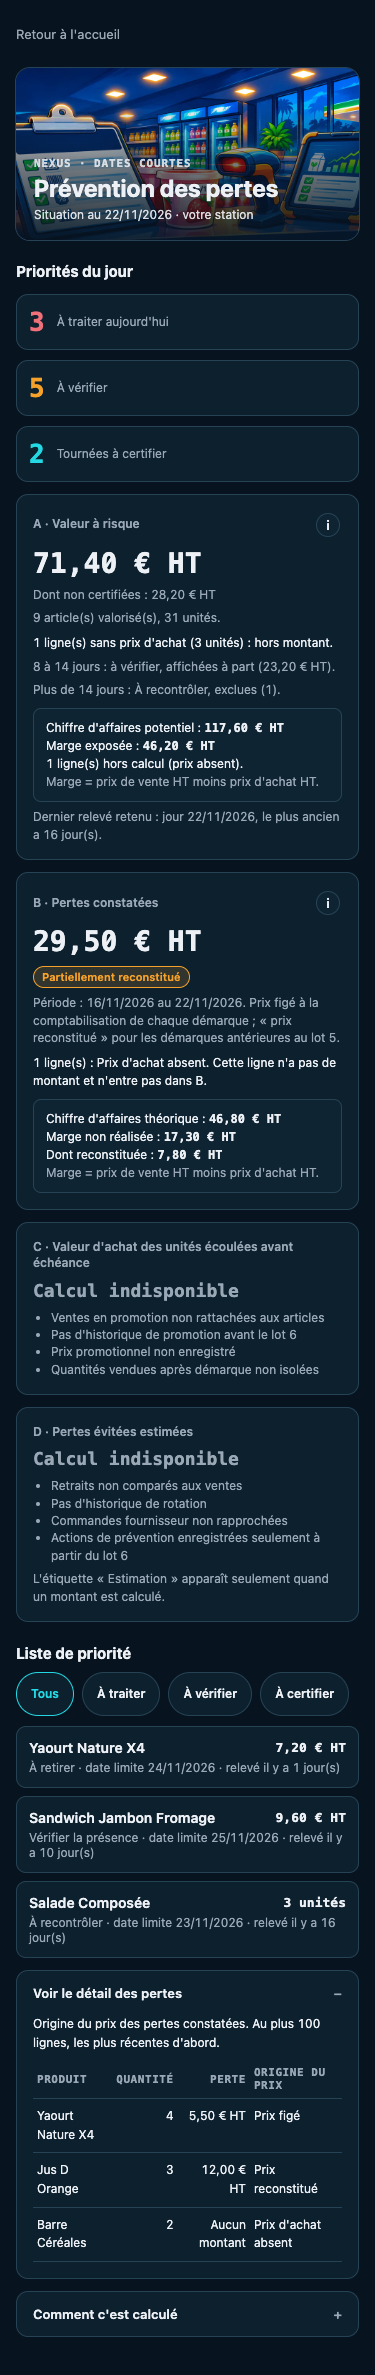
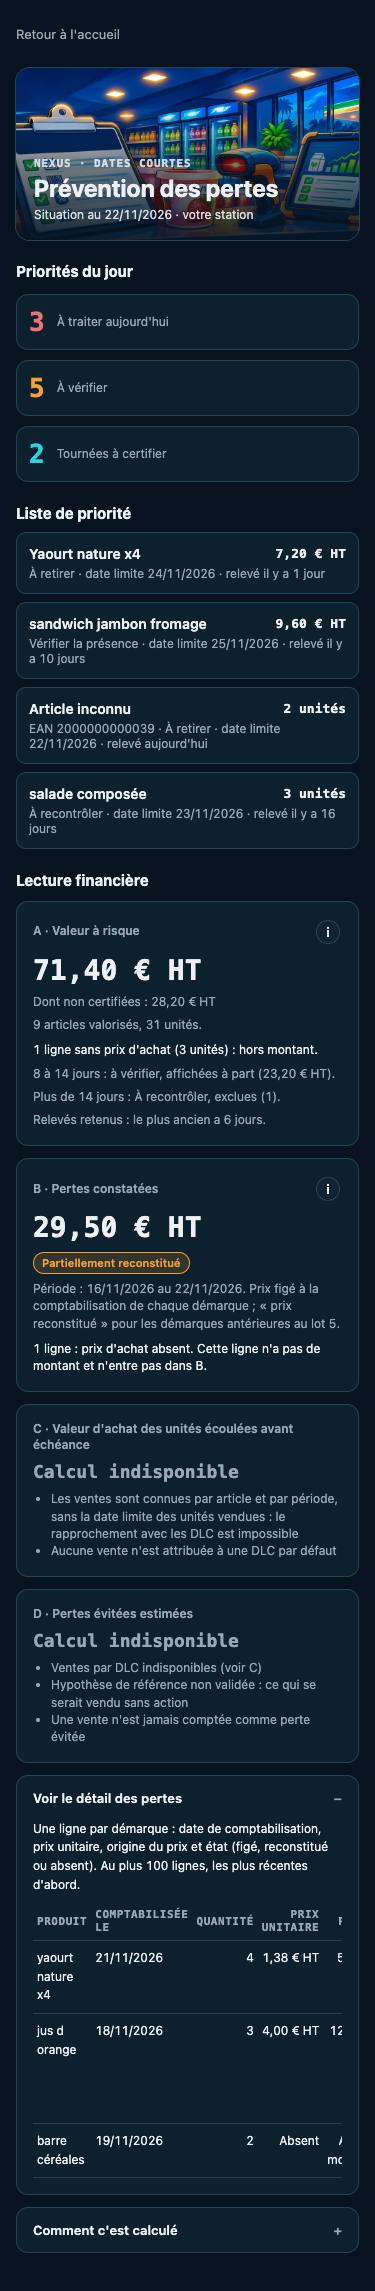
Dates courtes lot 5 : corrections de la recette visuelle (fiche autres tournées, noms, article inconnu, polices, phrases)

diff --git a/NEXUS-Dates-Courtes-v1.html b/NEXUS-Dates-Courtes-v1.html
@@ -76,7 +76,7 @@
   .liste{display:flex;flex-direction:column;gap:8px;margin-top:10px}
   .ligne{display:grid;grid-template-columns:1fr auto;gap:4px 10px;align-items:center;text-align:left;width:100%;background:var(--panel);border:1px solid var(--hairline);border-radius:10px;padding:12px;color:inherit;font:inherit;cursor:pointer;min-height:44px}
   .ligne:hover{border-color:var(--cyan)}
-  .ligne .nom{font-weight:600;font-size:14px;text-transform:capitalize;overflow-wrap:anywhere}
+  .ligne .nom{font-weight:600;font-size:14px;overflow-wrap:anywhere}
   .ligne .meta{font-size:12px;color:var(--text-mid);grid-column:1/-1}
   .ligne .val{font:600 13px var(--mono);text-align:right}
   .filtres{display:flex;flex-wrap:wrap;gap:8px;margin-top:10px}
@@ -106,9 +106,9 @@
   dialog{margin:auto;border:1px solid var(--hairline);border-radius:14px;background:var(--panel);color:var(--text);width:min(520px,calc(100vw - 24px));padding:0;max-height:88vh;overflow:auto}
   dialog::backdrop{background:rgba(0,0,0,.55)} /* charte-exception: voile de fond de la fiche */
   .fiche{padding:18px}
-  .fiche h2{margin:0;font-size:17px;text-transform:capitalize;overflow-wrap:anywhere}
+  .fiche h2{margin:0;font-size:17px;overflow-wrap:anywhere}
   .fiche dl{display:grid;grid-template-columns:auto 1fr;gap:6px 14px;margin-top:14px;font-size:13px}
-  .fiche dt{color:var(--text-mid)} .fiche dd{text-align:right;font-family:var(--mono)}
+  .fiche dt{color:var(--text-mid)} .fiche dd{text-align:right;font-family:var(--sans)} .fiche dd .num,.fiche dd .autre b{font-family:var(--mono)} .fiche .autres{margin:6px 0 0;padding:0;list-style:none;text-align:left} .fiche .autres li{margin:2px 0} .fiche .regle{grid-column:1/-1;margin:6px 0 0;font-size:13px;color:var(--text-mid);text-align:left}
   .fiche .actions{display:flex;flex-direction:column;gap:8px;margin-top:16px}
   .fiche button{min-height:44px;border-radius:8px;border:1px solid var(--hairline);background:var(--panel-raised);color:var(--text);font:600 13px var(--sans);cursor:pointer}
   .fiche button[disabled]{opacity:.6;cursor:not-allowed}
@@ -156,9 +156,11 @@
   const pl = (n, u, m) => nb(n) + ' ' + (n > 1 ? (m || u + 's') : u);
   const unites = n => nb(n) + (n > 1 ? ' unités' : ' unité');
   const dateFr = iso => iso ? iso.slice(8,10) + '/' + iso.slice(5,7) + '/' + iso.slice(0,4) : '';
-  const ETAT_AGE = {courante:'7 jours ou moins : courante', a_verifier:'8 à 14 jours : à vérifier', a_recontroler:'Plus de 14 jours : À recontrôler'};
+  const ETAT_AGE = {courante:'Récent (7 jours ou moins)', a_verifier:'8 à 14 jours : à vérifier', a_recontroler:'Plus de 14 jours : À recontrôler'};
   const ORIGINE = {fige:'Figé', reconstitue:'Reconstitué', absent:'Absent'};
   const SOURCE = {products:'Fiche produit', inventaire_ventes_import:'Inventaire des ventes'};
+  const nomArt = it => { const l = (it.libelle || '').trim(); return (!l || l === String(it.ean || '').trim()) ? 'Article inconnu' : l; };
+  const heureMq = iso => { try { return new Date(iso).toLocaleString('fr-FR', {timeZone:'America/Martinique', day:'2-digit', month:'2-digit', hour:'2-digit', minute:'2-digit'}).replace(',', ' à'); } catch (e) { return ''; } };
   const agePhrase = n => n === 0 ? 'relevé aujourd\'hui' : 'relevé il y a ' + pl(n, 'jour');
 
   function messageEtat(titre, texte, avecReessai){
@@ -176,7 +178,7 @@
     } else {
       corps = '<div class="gros">' + (a.valeur == null ? 'Aucun montant' : eur(a.valeur)) + '</div>' +
         (a.valeur != null ? '<p class="sous-gros">Dont non certifiées : ' + eur(a.dont_non_certifiees || 0) + '</p>' : '') +
-        '<p class="sous-gros">' + pl(a.articles_valorises, 'article valorisé') + ', ' + unites(a.unites) + '.</p>' +
+        '<p class="sous-gros">' + pl(a.articles_valorises, 'article valorisé', 'articles valorisés') + ', ' + unites(a.unites) + '.</p>' +
         (a.sans_prix.lignes > 0 ? '<p class="note">' + pl(a.sans_prix.lignes, 'ligne') + ' sans prix d\'achat (' + unites(a.sans_prix.unites) + ') : hors montant.</p>' : '');
     }
     const ind = a.indicatif && a.indicatif.articles > 0
@@ -187,7 +189,7 @@
       : 'Marge non calculable : prix ou nature fiscale manquants.';
     return '<section class="card" id="carteA" aria-labelledby="hA"><h3 id="hA">A · Valeur à risque' + btnInfo('iA') + '</h3>' + corps + ind + exc +
       '<div class="infobulle" id="iA" hidden>' + marge + '<br><span class="aide">' + esc(d.marge.formule) + '</span></div>' +
-      (a.plus_ancien_jours != null ? '<p class="sous-gros">Dernier relevé retenu : jour ' + dateFr(d.jour) + ', le plus ancien a ' + pl(a.plus_ancien_jours, 'jour') + '.</p>' : '') + '</section>';
+      (a.plus_ancien_jours != null ? '<p class="sous-gros">Relevés retenus : le plus ancien ' + (a.plus_ancien_jours === 0 ? 'date d\'aujourd\'hui' : 'a ' + pl(a.plus_ancien_jours, 'jour')) + '.</p>' : '') + '</section>';
   }
 
   function btnInfo(id){ return '<button type="button" class="info" aria-expanded="false" aria-controls="' + id + '" aria-label="Voir la marge et le chiffre d\'affaires"><span aria-hidden="true">i</span></button>'; }
@@ -242,15 +244,15 @@
     const lignes = items.length ? items.map(it => {
       const idx = d.liste.indexOf(it);
       const val = nfOk && it.valeur != null ? eur(it.valeur) : unites(it.quantite);
-      return '<button type="button" class="ligne" data-i="' + idx + '"><span class="nom">' + esc(it.libelle) + '</span><span class="val">' + esc(val) + '</span>' +
-        '<span class="meta">' + esc(it.action) + ' · date limite ' + dateFr(it.date_limite) + ' · ' + agePhrase(it.age_jours) + '</span></button>';
+      return '<button type="button" class="ligne" data-i="' + idx + '"><span class="nom">' + esc(nomArt(it)) + '</span><span class="val">' + esc(val) + '</span>' +
+        '<span class="meta">' + (nomArt(it) === 'Article inconnu' && it.ean ? 'EAN ' + esc(it.ean) + ' · ' : '') + esc(it.action) + ' · date limite ' + dateFr(it.date_limite) + ' · ' + agePhrase(it.age_jours) + '</span></button>';
     }).join('') : '<div class="etat">Rien à afficher pour cette sélection.</div>';
     return '<h2 id="titreListe">' + titre + '</h2>' + f + '<div class="liste">' + lignes + '</div>';
   }
 
   function detailPertes(d){
     const b = d.b, nfOk = d.nature_fiscale.determinee;
-    const rows = b.detail.length ? b.detail.map(x => '<tr><td>' + esc(x.libelle) + '</td><td>' + dateFr(x.date_comptabilisation) + '</td><td class="num">' + nb(x.quantite) + '</td><td class="num">' + (x.prix_unitaire != null ? eur(x.prix_unitaire) : 'Absent') + '</td><td class="num">' + (nfOk && x.valeur != null ? eur(x.valeur) : 'Aucun montant') + '</td><td>' + esc(SOURCE[x.source] || x.source || 'Aucune') + (x.periode_debut ? '<br><span class="aide">' + dateFr(x.periode_debut) + ' au ' + dateFr(x.periode_fin) + '</span>' : '') + '</td><td>' + esc(ORIGINE[x.etat] || x.etat) + '</td></tr>').join('') : '<tr><td colspan="7">Aucune démarque sur la période.</td></tr>';
+    const rows = b.detail.length ? b.detail.map(x => '<tr><td>' + esc(nomArt(x)) + (nomArt(x) === 'Article inconnu' && x.ean ? '<br><span class="aide">' + esc(x.ean) + '</span>' : '') + '</td><td>' + dateFr(x.date_comptabilisation) + '</td><td class="num">' + nb(x.quantite) + '</td><td class="num">' + (x.prix_unitaire != null ? eur(x.prix_unitaire) : 'Absent') + '</td><td class="num">' + (nfOk && x.valeur != null ? eur(x.valeur) : 'Aucun montant') + '</td><td>' + esc(SOURCE[x.source] || x.source || 'Aucune') + (x.periode_debut ? '<br><span class="aide">' + dateFr(x.periode_debut) + ' au ' + dateFr(x.periode_fin) + '</span>' : '') + '</td><td>' + esc(ORIGINE[x.etat] || x.etat) + '</td></tr>').join('') : '<tr><td colspan="7">Aucune démarque sur la période.</td></tr>';
     return '<details class="panneau" id="panDetail"><summary>Voir le détail des pertes</summary><div class="corps"><p>Une ligne par démarque : date de comptabilisation, prix unitaire, origine du prix et état (figé, reconstitué ou absent). Au plus 100 lignes, les plus récentes d\'abord.</p><div style="overflow-x:auto"><table><thead><tr><th>Produit</th><th>Comptabilisée le</th><th class="num">Quantité</th><th class="num">Prix unitaire</th><th class="num">Perte</th><th>Origine du prix</th><th>État</th></tr></thead><tbody>' + rows + '</tbody></table></div></div></details>';
   }
 
@@ -277,13 +279,22 @@
       detailPertes(d) + commentCalcule(d);
   }
 
+  function autresTournees(it){
+    const a = Array.isArray(it.autres_tournees) ? it.autres_tournees : [];
+    if (!a.length) return '';
+    // L'identifiant de l'auteur n'est jamais affiché : la réponse ne porte ni pseudonyme ni rôle.
+    const li = a.map(t => '<li class="autre">' + esc(t.nom || 'Tournée sans nom') + ', par un autre opérateur, ' + esc(heureMq(t.heure)) + '</li>').join('');
+    return '<h3 class="aide" style="margin:12px 0 0">Autres tournées sur cette ligne</h3><ul class="autres">' + li + '</ul>' +
+      '<p class="regle">La tournée la plus récente fait foi : seules les ' + unites(it.quantite) + ' de cette tournée comptent.</p>';
+  }
+
   function ouvrirFiche(i){
     const it = DONNEES.liste[i], nfOk = DONNEES.nature_fiscale.determinee;
-    fiche.innerHTML = '<div class="fiche"><h2>' + esc(it.libelle) + '</h2><p class="aide">' + esc(it.ean || '') + '</p><dl>' +
-      '<dt>Action</dt><dd>' + esc(it.action) + '</dd><dt>Date limite</dt><dd>' + dateFr(it.date_limite) + ' (' + nb(it.jours_restants) + ' j)</dd>' +
-      '<dt>Quantité</dt><dd>' + nb(it.quantite) + '</dd><dt>Âge du relevé</dt><dd>' + nb(it.age_jours) + ' j</dd><dt>État du relevé</dt><dd>' + esc(ETAT_AGE[it.etat_age] || it.etat_age) + '</dd>' +
+    fiche.innerHTML = '<div class="fiche"><h2>' + esc(nomArt(it)) + '</h2><p class="aide">' + esc(it.ean || '') + '</p><dl>' +
+      '<dt>Action</dt><dd>' + esc(it.action) + '</dd><dt>Date limite</dt><dd>' + dateFr(it.date_limite) + ' (' + (it.jours_restants === 0 ? 'aujourd\'hui' : nb(it.jours_restants) + ' j') + ')</dd>' +
+      '<dt>Quantité</dt><dd><span class="num">' + nb(it.quantite) + '</span></dd><dt>Âge du relevé</dt><dd>' + (it.age_jours === 0 ? 'aujourd\'hui' : '<span class="num">' + nb(it.age_jours) + '</span> j') + '</dd><dt>État du relevé</dt><dd>' + esc(ETAT_AGE[it.etat_age] || it.etat_age) + '</dd>' +
       '<dt>Valeur</dt><dd>' + (nfOk && it.valeur != null ? eur(it.valeur) : 'Aucun montant') + '</dd>' +
-      (it.autres_tournees ? '<dt>Autres tournées</dt><dd>' + nb(it.autres_tournees) + '</dd>' : '') + '</dl>' +
+      '</dl>' + autresTournees(it) +
       '<div class="actions"><button type="button" disabled aria-disabled="true">Décider une action</button><p class="dispo">Disponible au lot 6</p><button type="button" id="fermerFiche">Fermer</button></div></div>';
     if (typeof fiche.showModal === 'function') fiche.showModal(); else fiche.setAttribute('open', '');
     document.getElementById('fermerFiche').onclick = () => fiche.close();
